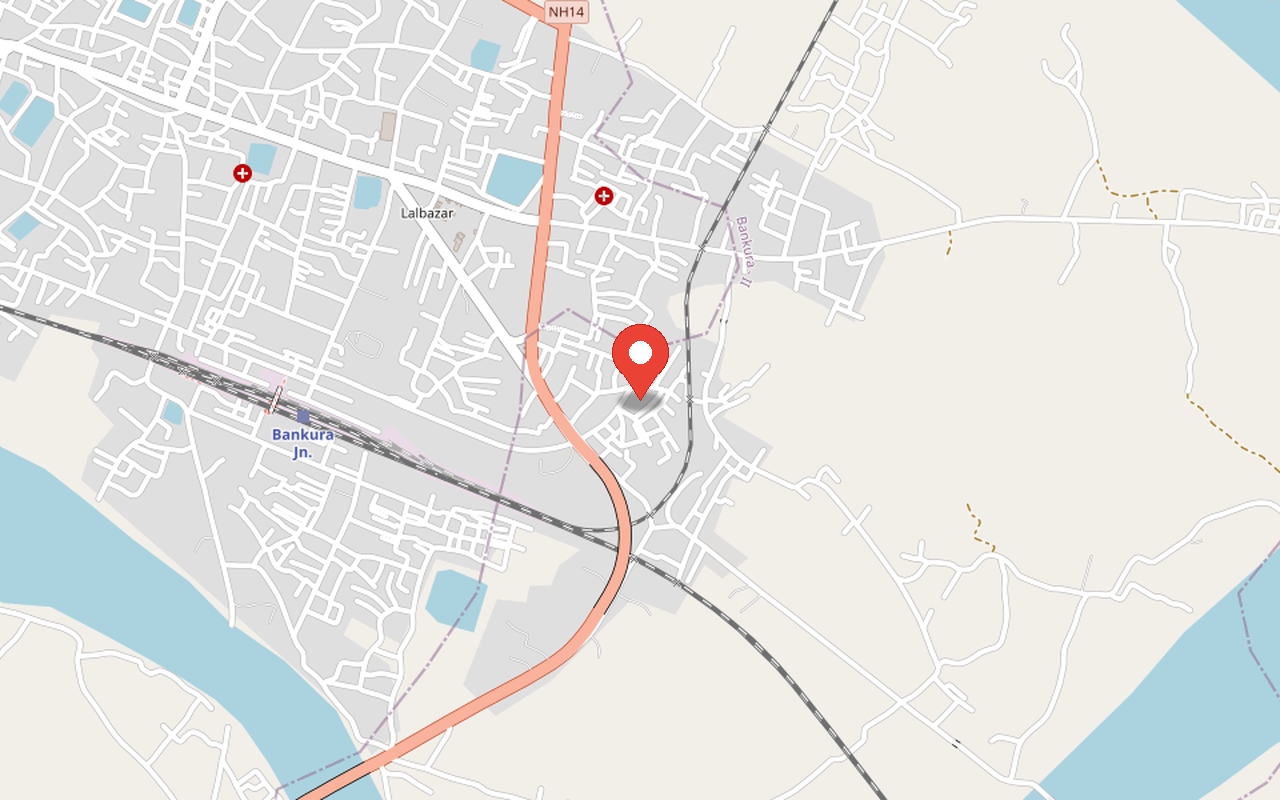
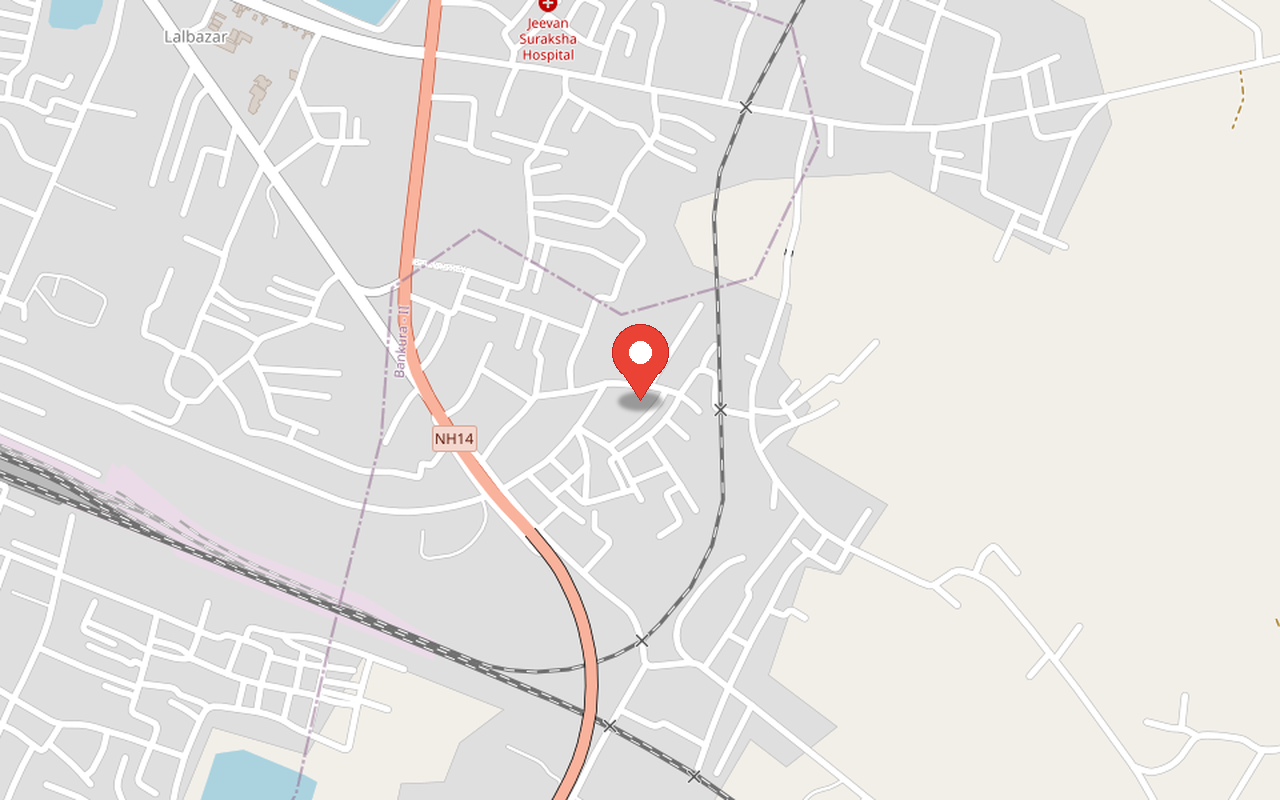
fix: update venue location coordinates to 23.224777, 87.086705

diff --git a/src/components/VenueSection.tsx b/src/components/VenueSection.tsx
@@ -39,7 +39,7 @@ export const VenueSection = () => {
         >
           <iframe
             title="Venue Location Map"
-            src="https://maps.google.com/maps?q=23.224608,87.086432&hl=en&z=15&output=embed"
+            src="https://maps.google.com/maps?q=23.2247774,87.0867049&hl=en&z=16&output=embed"
             className="w-full h-full border-0"
             loading="lazy"
             referrerPolicy="no-referrer-when-downgrade"

diff --git a/src/config/weddingData.ts b/src/config/weddingData.ts
@@ -64,6 +64,6 @@ export const weddingData: WeddingConfig = {
     title: "Where We Celebrate",
     subtitle: "Venue",
     image: "./assets/venue-map.png",
-    googleMapsUrl: "https://www.google.com/maps/place/23.224608,87.086432/data=!4m6!3m5!1s0!7e2!8m2!3d23.224608!4d87.086432!18m1!1e1"
+    googleMapsUrl: "https://www.google.com/maps/place/23.224777,87.086705/data=!4m6!3m5!1s0!7e2!8m2!3d23.2247774!4d87.0867049!18m1!1e1"
   }
 };
